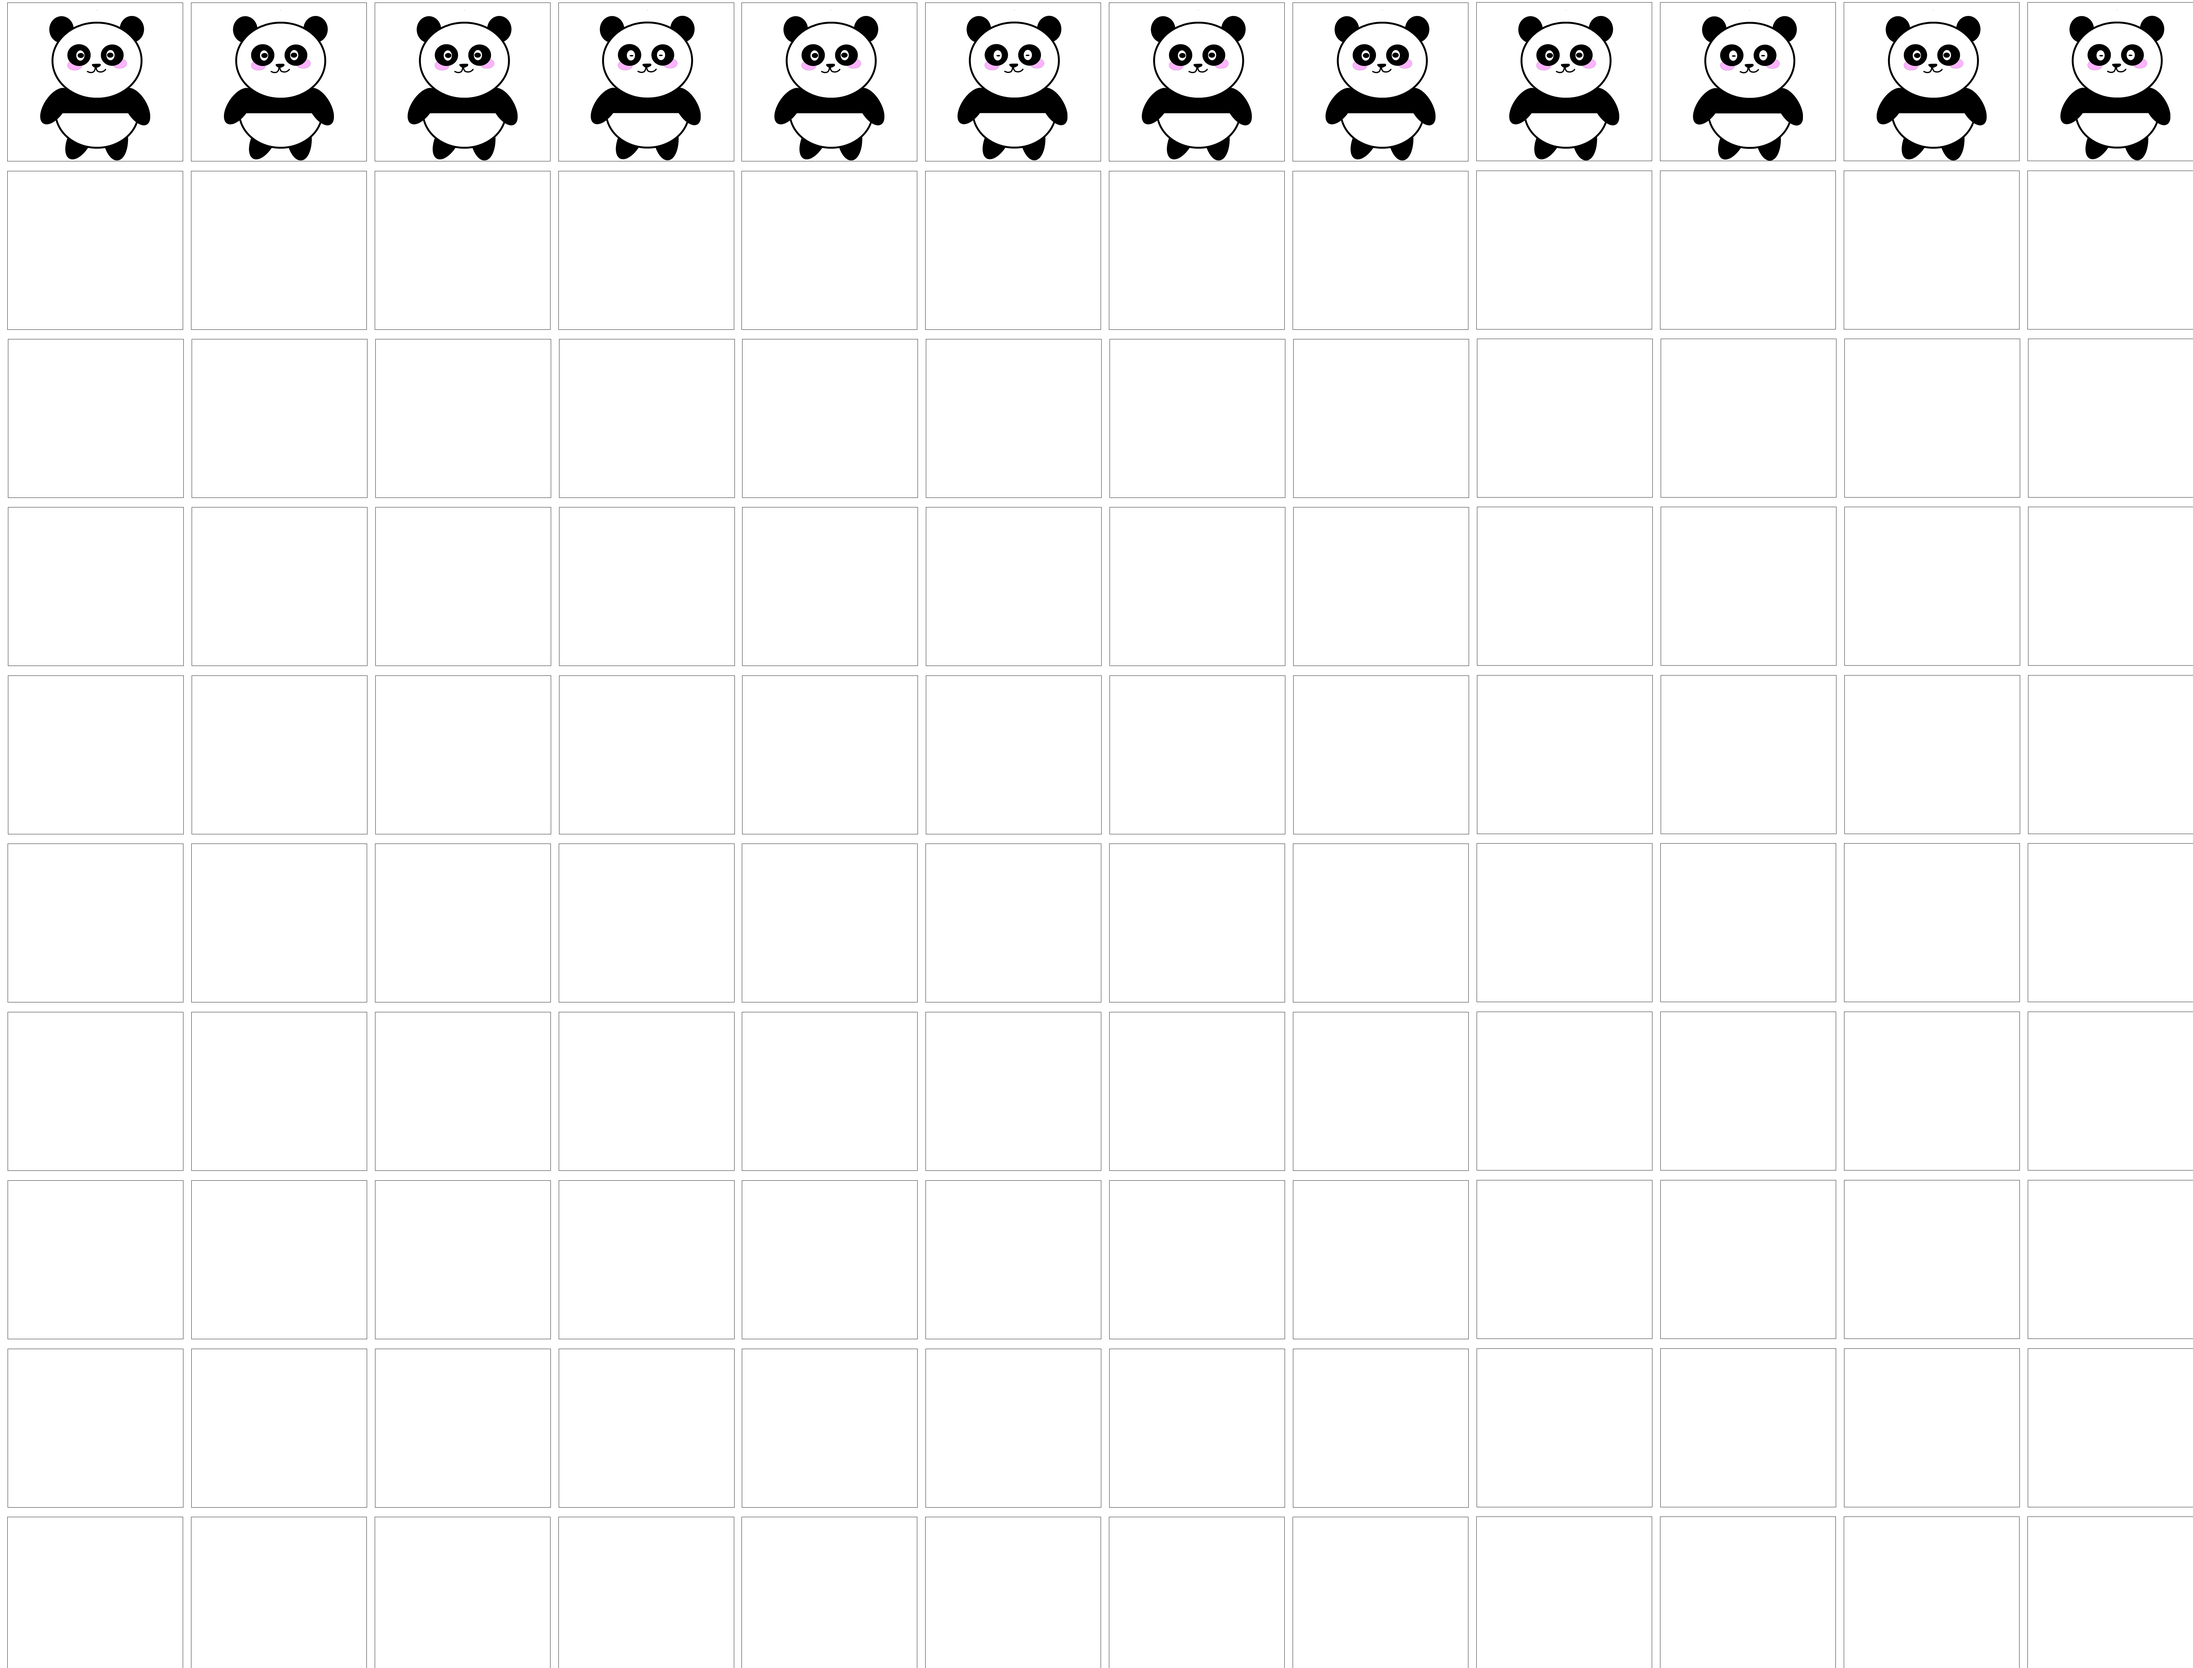
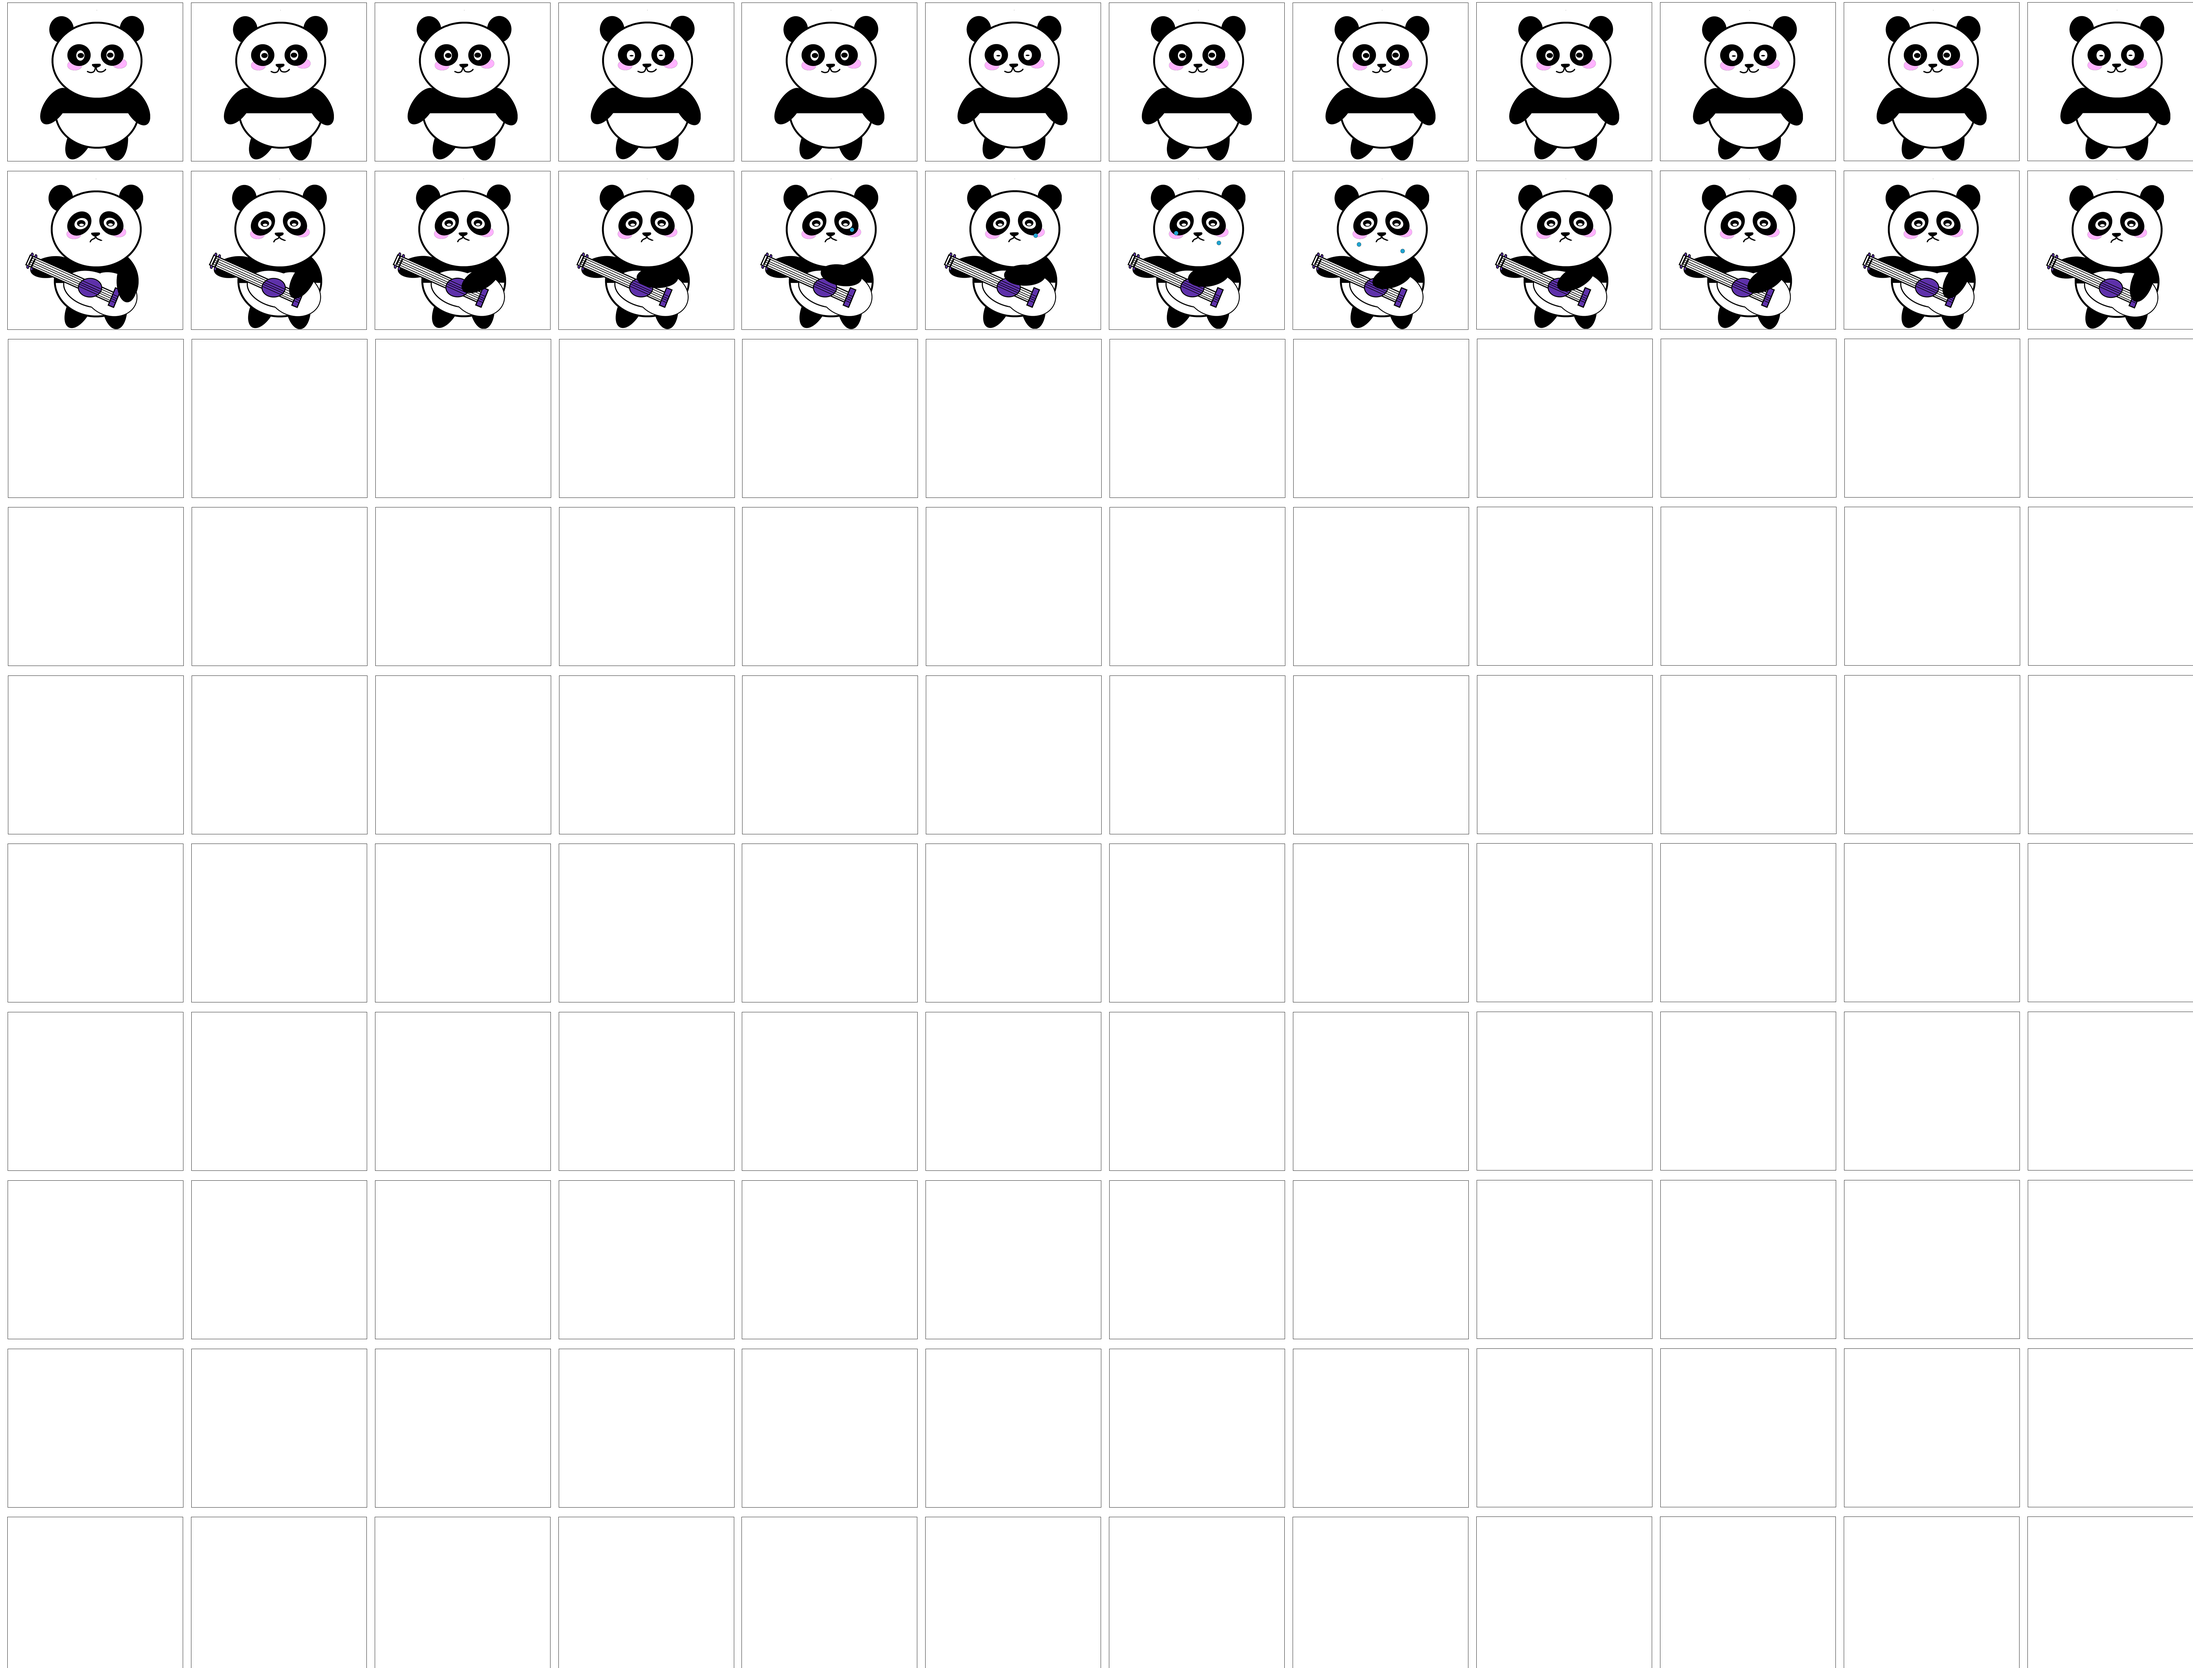
sad animation

diff --git a/index.html b/index.html
@@ -14,7 +14,7 @@
         <label for="animations" name="animations">Choose a Vibe:</label>
         <select id="animations" name="animations">
             <option value="idle">We're feeling...</option>
-            <option value="jump">Jump</option>
+            <option value="jump">Sad</option>
             <option value="fall">Fall</option>
             <option value="run">Run</option>
             <option value="dizzy">Dizzy</option>

diff --git a/script.js b/script.js
@@ -41,7 +41,7 @@ const spriteHeight = 523;
 gameFrame = 0;
 
 // Will slow down animation by that amount -- higher the number, the slower the animation will be 
-const staggerFrames = 28;
+const staggerFrames = 24;
 
 // Stores all the positions of sprites for a given animation (row) as calculated in forEach() below
 const spriteAnimations = [];
